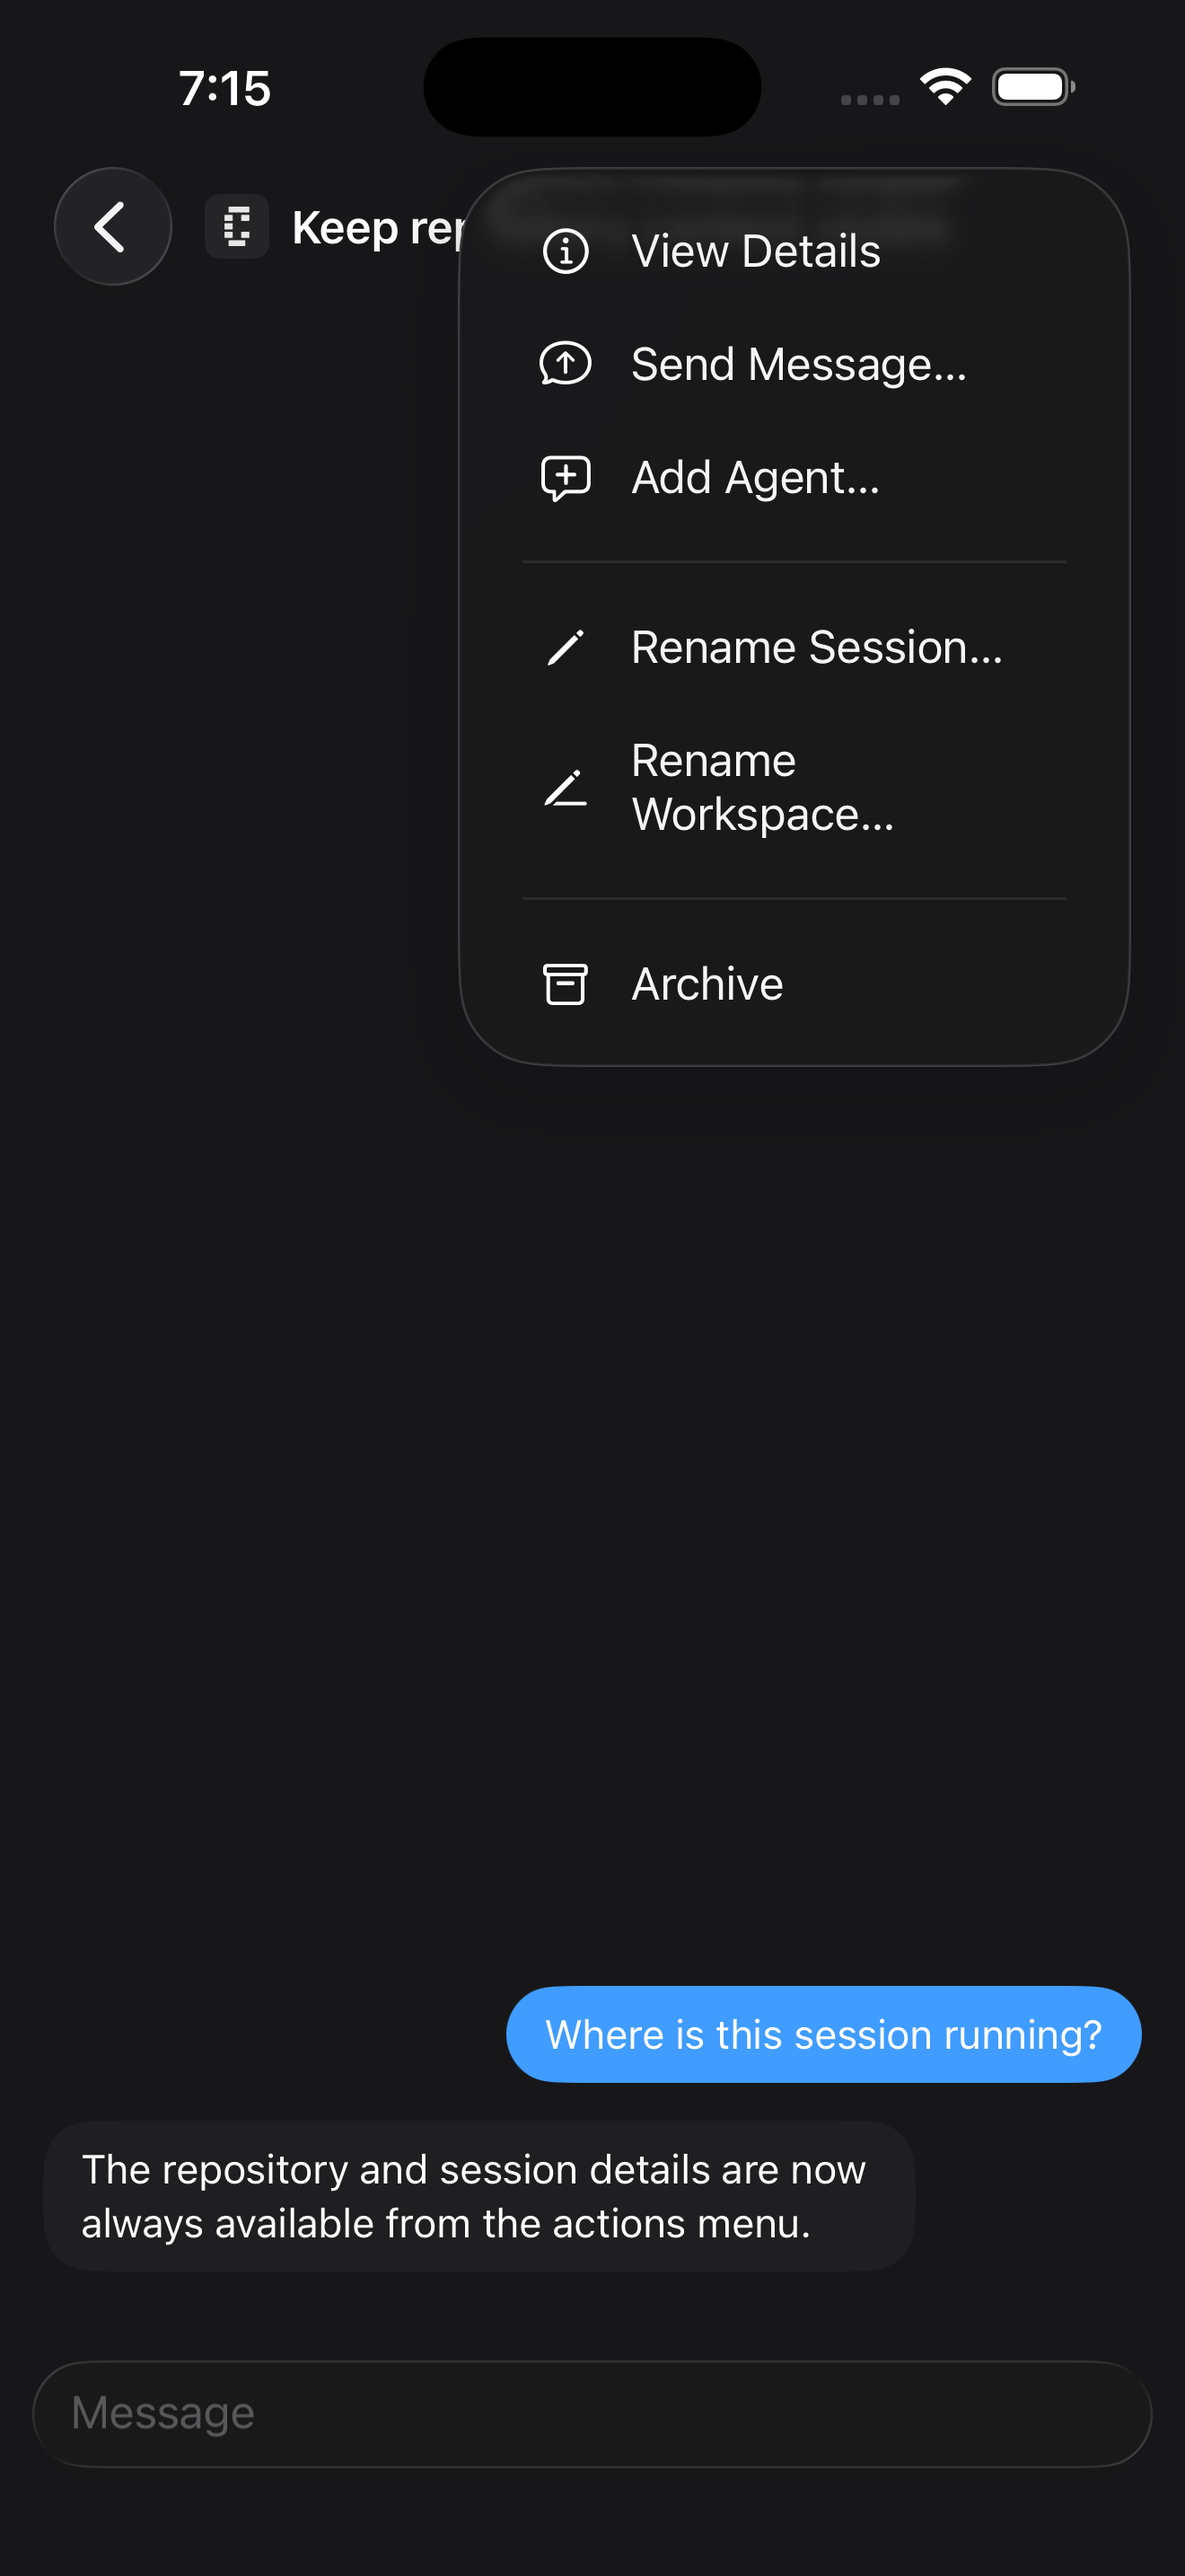
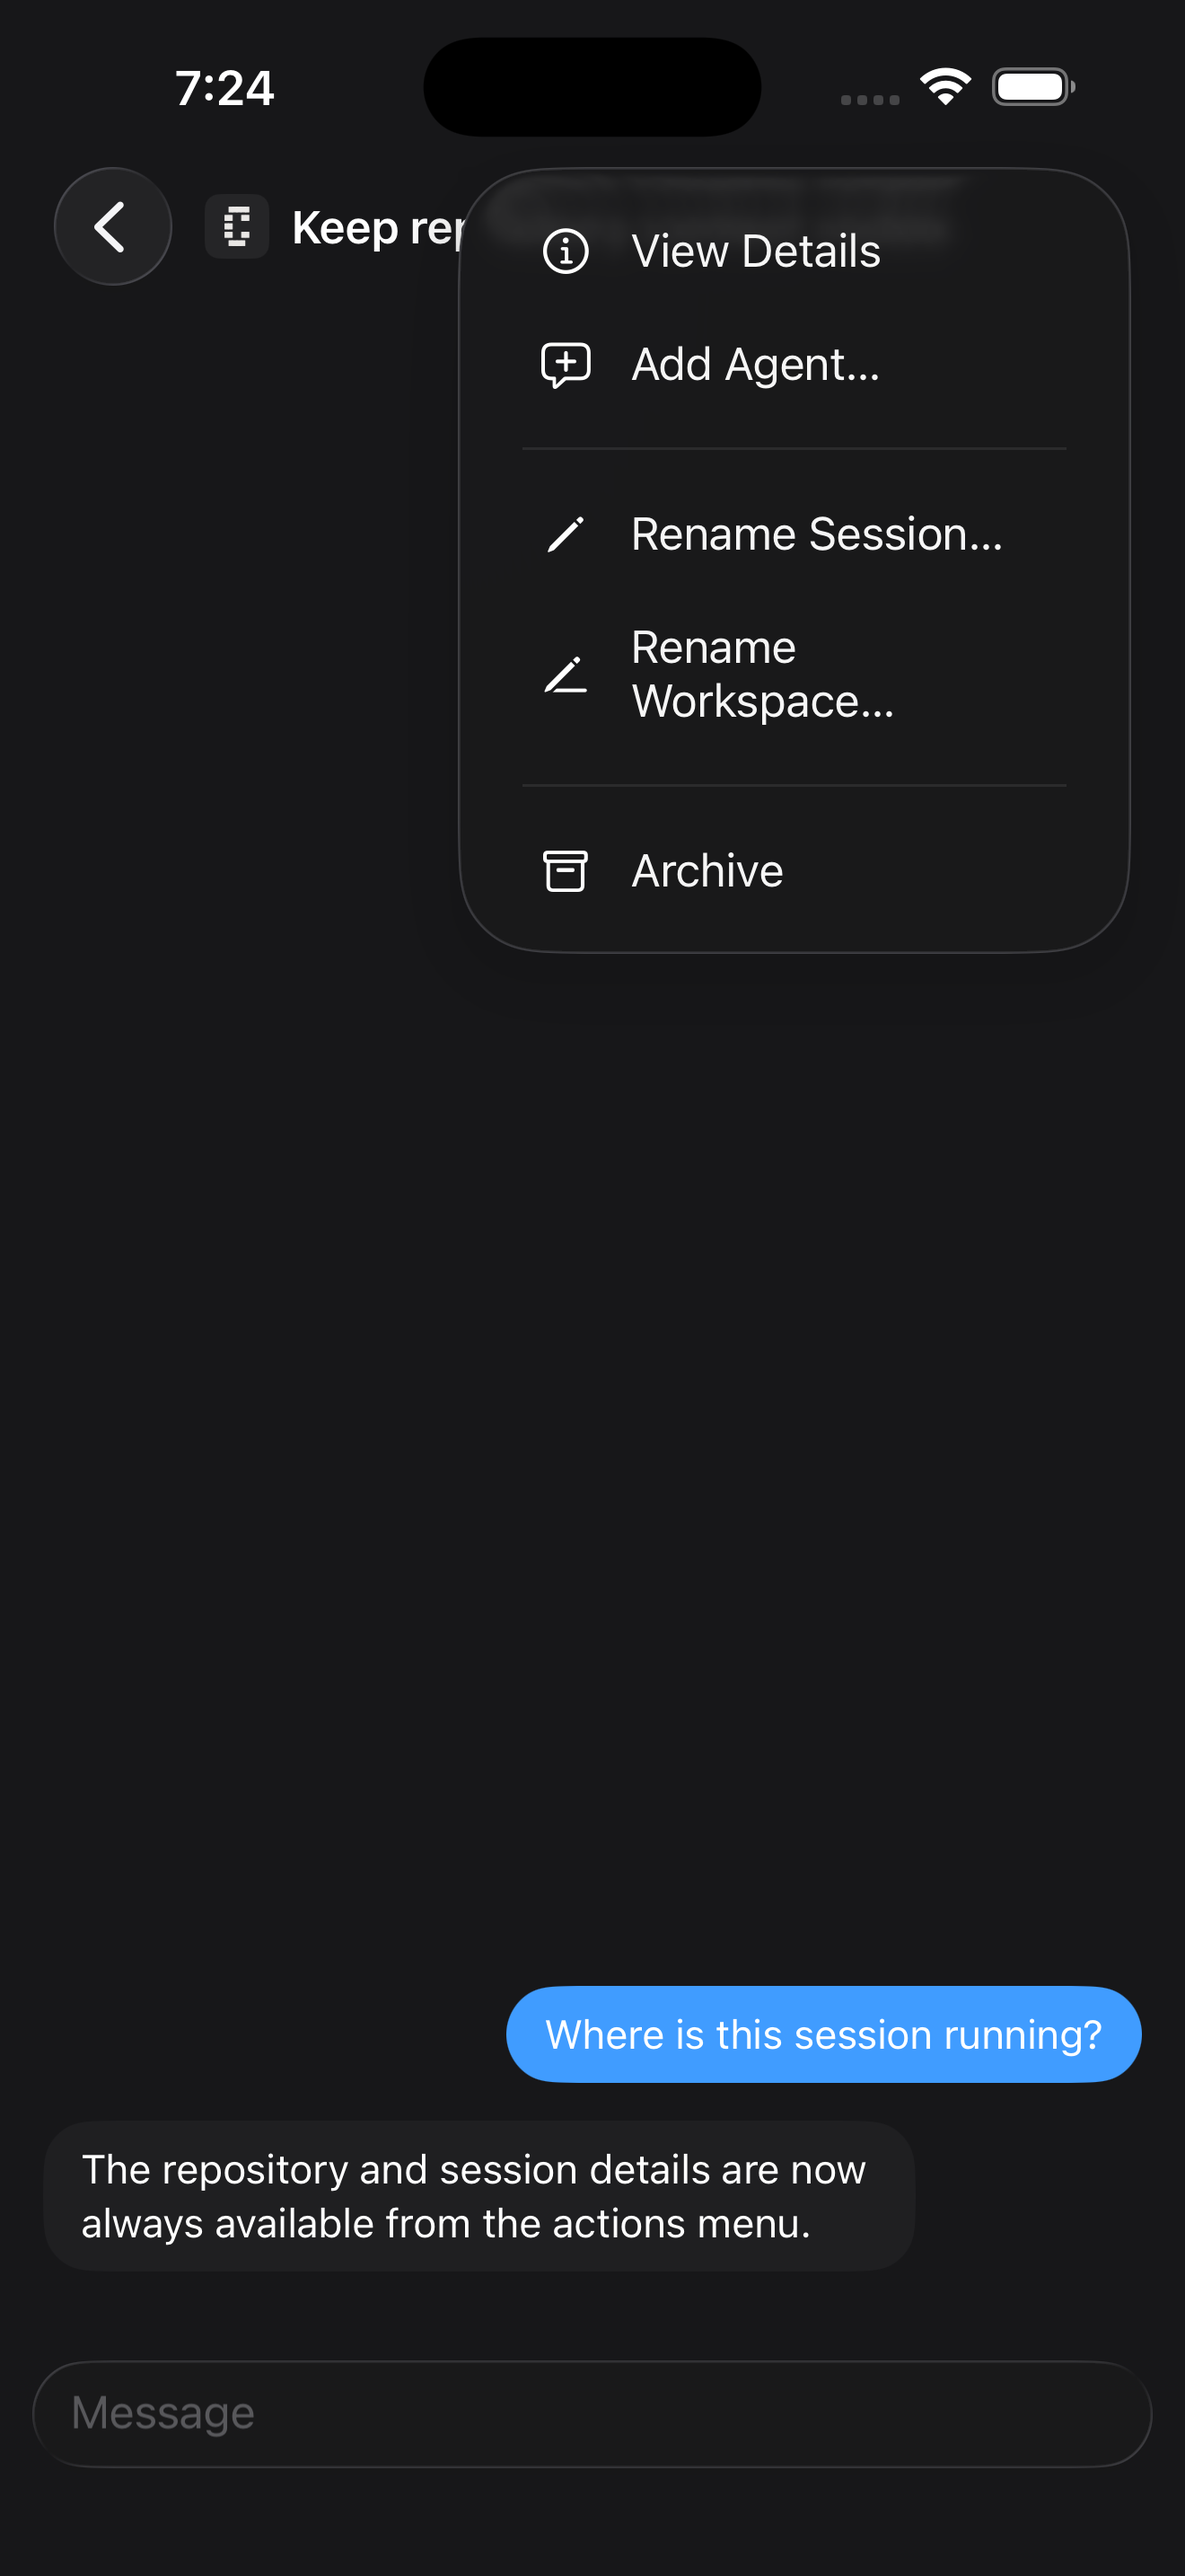
fix(ios): remove redundant session message action

diff --git a/apps/ios/Luke/SessionsView.swift b/apps/ios/Luke/SessionsView.swift
@@ -74,12 +74,12 @@ struct SessionsView: View {
                     set: { threads[opened.id] = $0 }
                 ),
                 onDelivered: { await refreshSessions() },
-                sessionActions: { viewDetails, sendMessage in
+                sessionActions: { viewDetails in
                     AnyView(
                         rowMenu(
                             current,
                             viewDetails: viewDetails,
-                            sendMessage: sendMessage
+                            sendMessage: nil
                         )
                     )
                 }
@@ -275,7 +275,7 @@ struct SessionsView: View {
         Group {
             if hasRowActs(s) {
                 core.contextMenu {
-                    rowMenu(s, viewDetails: nil) { openedSession = s }
+                    rowMenu(s, viewDetails: nil, sendMessage: { openedSession = s })
                 } preview: {
                     SessionRowPreview(session: s)
                 }
@@ -315,7 +315,7 @@ struct SessionsView: View {
     private func rowMenu(
         _ s: RosterSession,
         viewDetails: (() -> Void)?,
-        sendMessage: @escaping () -> Void
+        sendMessage: (() -> Void)?
     ) -> some View {
         Section {
             if let viewDetails {
@@ -323,7 +323,7 @@ struct SessionsView: View {
                     Label("View Details", systemImage: "info.circle")
                 }
             }
-            if s.canReceiveMessage {
+            if s.canReceiveMessage, let sendMessage {
                 Button(action: sendMessage) {
                     Label("Send Message…", systemImage: "arrow.up.message")
                 }

diff --git a/apps/ios/Luke/SessionDetailView.swift b/apps/ios/Luke/SessionDetailView.swift
@@ -115,9 +115,9 @@ struct SessionDetailView: View {
     /// Runs after a delivered send so the roster refreshes behind this screen.
     let onDelivered: () async -> Void
     /// The roster row's own advertised actions, redrawn in this screen's menu.
-    /// Supplying the send action from here lets that shared entry focus this
-    /// screen's composer instead of navigating to a screen already open.
-    let sessionActions: (@escaping () -> Void, @escaping () -> Void) -> AnyView
+    /// Messaging is already present as the composer, so the shared menu omits
+    /// that roster-only navigation entry here.
+    let sessionActions: (@escaping () -> Void) -> AnyView
 
     @Environment(AccountSession.self) private var account
     @Environment(ProductEventSender.self) private var events
@@ -326,10 +326,7 @@ struct SessionDetailView: View {
             }
             ToolbarItem(placement: .topBarTrailing) {
                 Menu {
-                    sessionActions(
-                        { infoShown = true },
-                        { composing = true }
-                    )
+                    sessionActions { infoShown = true }
                 } label: {
                     Label("Session Actions", systemImage: "ellipsis")
                 }
